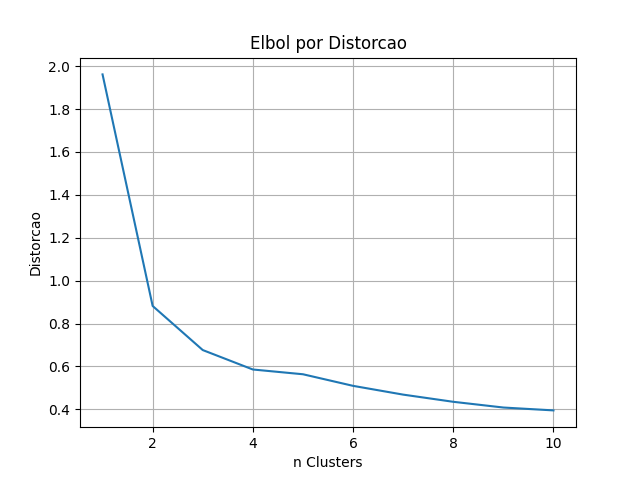
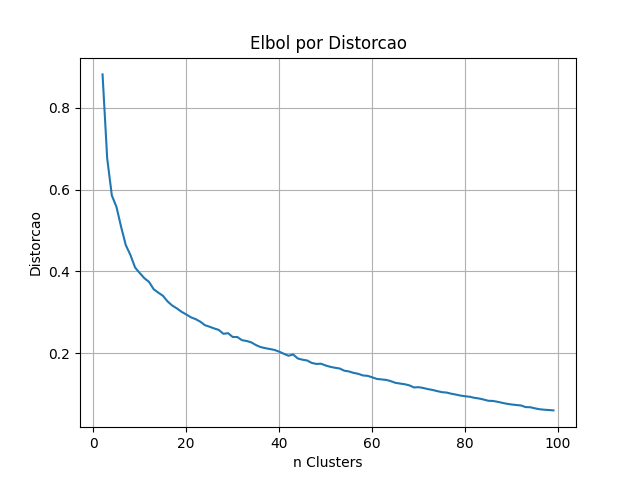
inferencia

diff --git a/using_kmeans.py b/using_kmeans.py
@@ -71,16 +71,15 @@ def plot_and_save_distortions_bow(k):
 def get_intertia(data, model, turns, console_log):
     intertia = []
     for turn in turns:
-        k_model = KMeans(n_clusters=turn).fit(data)
+        k_model = KMeans(n_clusters=turn, random_state=1).fit(data)
         intertia.append(k_model.inertia_)
     if console_log: print(intertia)
     return intertia
 
 def get_distances(sum_square, console_log):
-    x1 = 1
+    x1 = 2
     y1 = sum_square[0]
-
-    x2 = 10
+    x2 = 100
     y2 = sum_square[len(sum_square)-1]
 
     distancias = []
@@ -95,7 +94,22 @@ def get_distances(sum_square, console_log):
     print("Numero otimo de clusters", n_cluster_otimo)
     return n_cluster_otimo
 
-k = range(1,11)
+def save_model_with_picle(normalize_model, model_name):
+    # Salvar o modelo normalizador
+    from pickle import dump
+    dump(normalize_model, open(model_name+".pkl", "wb"))
+
+def load_model_with_picle(normalize_model, model_name):
+    #Carregar o modelo normalizador salvo
+    from pickle import load
+    normalize_model = load(open(model_name+".pkl", "rb"))
+    return normalize_model
+
+# Obter o modelo otimizado de clusters - n_cluster_otimo
+# Imprimir os centroids do modelo obtido
+# salvar o modelo em disco - Picle
+
+k = range(2,100)
 
 dataframe = read_dataset(False)
 
@@ -107,7 +121,9 @@ distorcoes = get_distortions(data, model, k, False)
 
 soma_quadrados = get_intertia(data, model, k, False)
 
-plot_and_save_distortions_bow(k=range(1,11))
+#plot_and_save_distortions_bow(k)
 
-get_distances(soma_quadrados, True)
+n_cluster_otimo = get_distances(soma_quadrados, False)
+
+save_model_with_picle(model, "cluster_kmeans")
 

diff --git a/cluster_inferencia.py b/cluster_inferencia.py
@@ -1,0 +1,12 @@
+from pickle import load
+#from sklearn import sklearn.predict
+
+nova_flor = [[4.9,3.7,1.7,0.1]]
+
+iris_cluster = load(open("cluster_kmeans.pkl", "rb"))
+res = iris_cluster.predict(nova_flor)
+print(res)
+
+
+
+print(iris_cluster.cluster_centers_[res])
